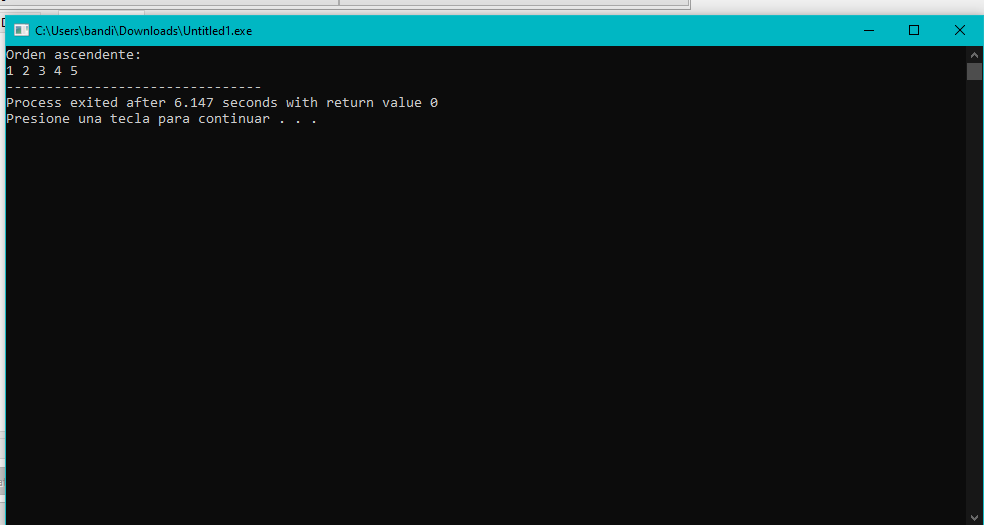
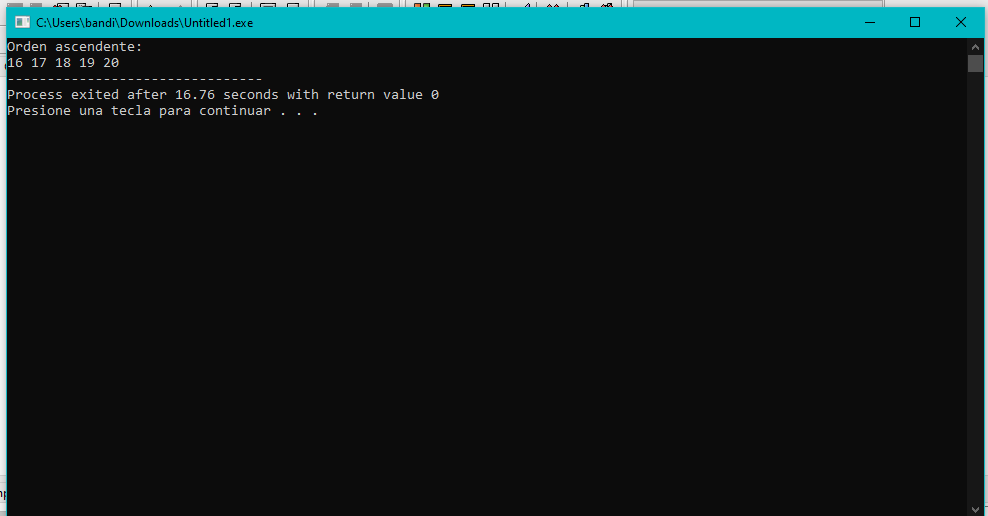
lol

Changed region(s): [[0.0, 0.0, 1.0, 1.0], [0.0, 0.8682, 0.0305, 0.9922]]

diff --git a/U3 Fuctions/coseno.cpp b/U3 Fuctions/coseno.cpp
@@ -1,0 +1,38 @@
+#include <iostream>
+#include <math.h>
+using namespace std;
+
+#define n 6
+#define PI 3.1416
+
+long double fact(int num)
+{
+    long double p= 1.0;
+    for (int i = 1; i <= num; i++)
+    {
+        p *= i;
+    }
+    return p;
+}
+
+double rad(double grd)
+{
+    return grd * PI / 180;
+}
+
+double cos(double x)
+{
+    double resultado = 0;
+    for (int i = 0; i <= n; i++)
+    {
+        resultado = resultado + (pow(-1, i)*((pow(x, 2 * i)) / fact(2 * i)));
+    }
+    return resultado;
+}
+int main()
+{
+    double angulo = rad(60), print;
+    print = cos(angulo);
+    cout << "Coseno de 60 igual a  " << print << endl;
+    return 0;
+}

diff --git a/U3 Fuctions/strings.cpp b/U3 Fuctions/strings.cpp
@@ -1,0 +1,18 @@
+#include <iostream>
+using namespace std;
+long double factorial(int);
+int main()
+{
+    int n;
+    cout << "Introduzca un numero: ";
+    cin >> n;
+    cout << "Factorial: " << factorial(n) << endl;
+}
+long double factorial(int n)
+{
+    long double fact;
+    if (n == 0)
+        return 1;
+    else
+        return n * factorial(n - 1);
+}

diff --git a/U3 Fuctions/vector.cpp b/U3 Fuctions/vector.cpp
@@ -7,10 +7,8 @@ using namespace std;
 
 int main(){
 	
-	int numeros[] = {4,1,2,3,5};
+	int numeros[] = { 19,16,17,18,20 };
 	int i,j, aux;
-	
-	//ALgoritmo metodo burbuja
 	for(i= 0; i <5; i++){
 		for(j= 0; j <5; j++){
 			if(numeros[j] > numeros[j + 1]){
@@ -31,4 +29,3 @@ int main(){
 	getch();
 	return 0;
 }
-

diff --git a/U3 Fuctions/README.md b/U3 Fuctions/README.md
@@ -85,11 +85,48 @@ int esbisiesto(int year){
 <img alt="Ejecuccion" src='Imagenes/ab.png' width='600'>
 </div>
 
-* [E03_.cpp]()
+* [E03_Coseno.cpp]()
 * Objetiv
-### 
+### The objective of this program is the cosine value of a specific angle will be given.
 ```
+#include <iostream>
+#include <math.h>
+using namespace std;
 
+#define n 6
+#define PI 3.1416
+
+long double fact(int num)
+{
+    long double p= 1.0;
+    for (int i = 1; i <= num; i++)
+    {
+        p *= i;
+    }
+    return p;
+}
+
+double rad(double grd)
+{
+    return grd * PI / 180;
+}
+
+double cos(double x)
+{
+    double resultado = 0;
+    for (int i = 0; i <= n; i++)
+    {
+        resultado = resultado + (pow(-1, i)*((pow(x, 2 * i)) / fact(2 * i)));
+    }
+    return resultado;
+}
+int main()
+{
+    double angulo = rad(60), print;
+    print = cos(angulo);
+    cout << "Coseno de 60 igual a  " << print << endl;
+    return 0;
+}
 ```
 <div align="center">
 <img alt="Ejecuccion" src='Imagenes/Tablascorrida.png' width='600'>
@@ -374,10 +411,8 @@ using namespace std;
 
 int main(){
 	
-	int numeros[] = {4,1,2,3,5};
+	int numeros[] = { 19,16,17,18,20 };
 	int i,j, aux;
-	
-	//ALgoritmo metodo burbuja
 	for(i= 0; i <5; i++){
 		for(j= 0; j <5; j++){
 			if(numeros[j] > numeros[j + 1]){
@@ -405,9 +440,26 @@ int main(){
 
 * [09_Strings.cpp](https://github.com/up210710/UP210710_CPP/blob/main/U3%20Fuctions/strings.cpp)
 * Objetiv
-### 
+### The objective of this program is recursive function from the factorial of a number.
 ```
-
+#include <iostream>
+using namespace std;
+long double factorial(int);
+int main()
+{
+    int n;
+    cout << "Introduzca un numero: ";
+    cin >> n;
+    cout << "Factorial: " << factorial(n) << endl;
+}
+long double factorial(int n)
+{
+    long double fact;
+    if (n == 0)
+        return 1;
+    else
+        return n * factorial(n - 1);
+}
 ```
 <div align="center">
 <img alt="Ejecuccion" src='Imagenes/Pn.png' width='600'>
